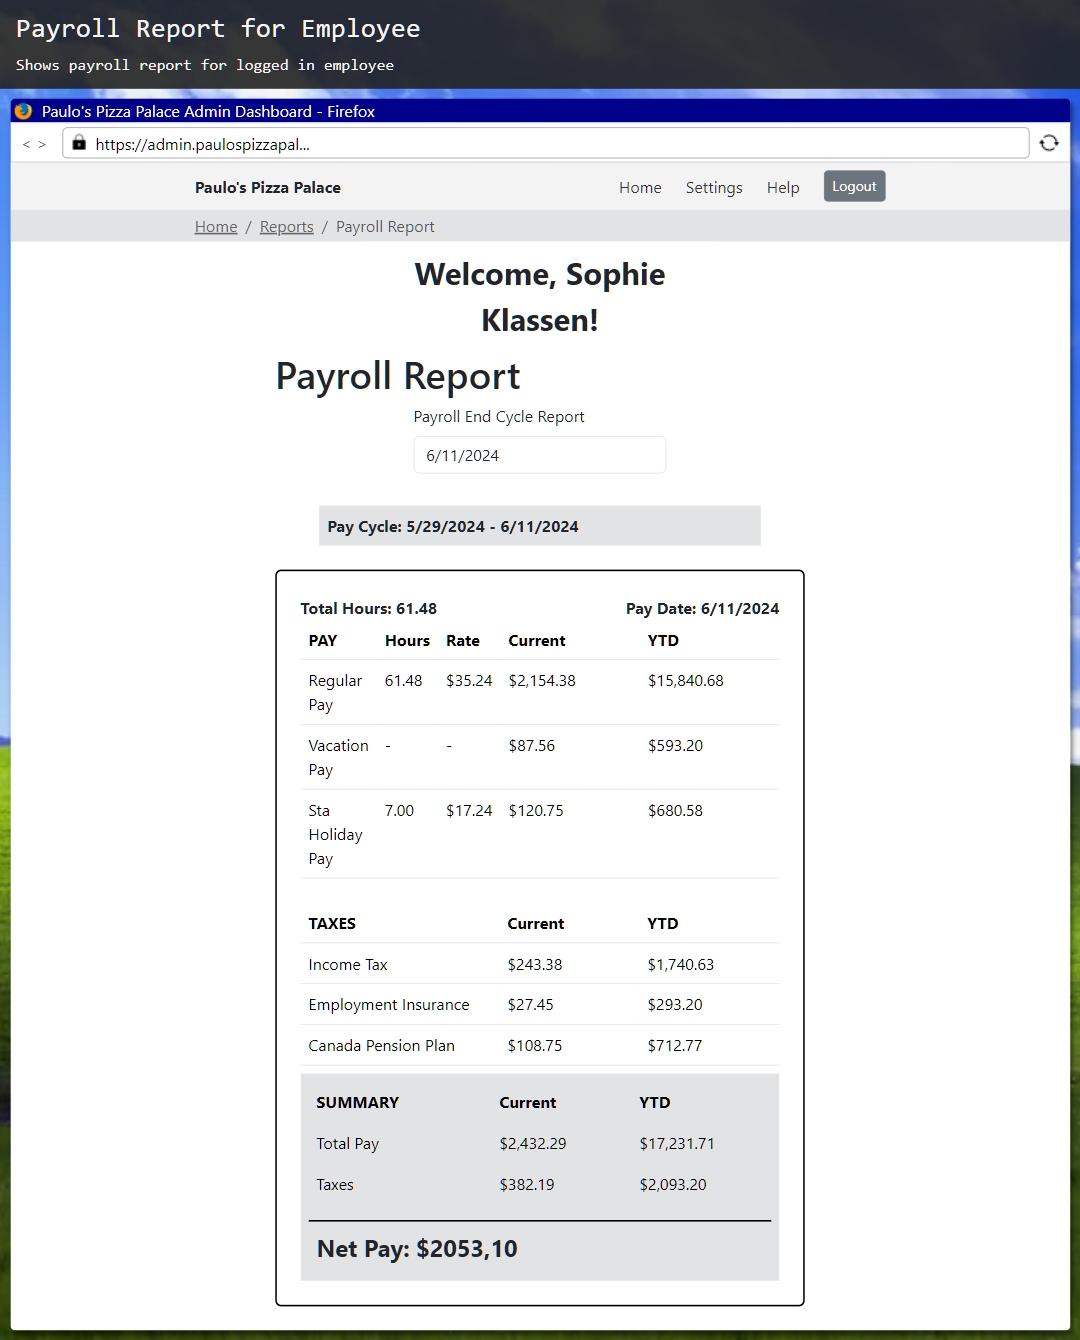
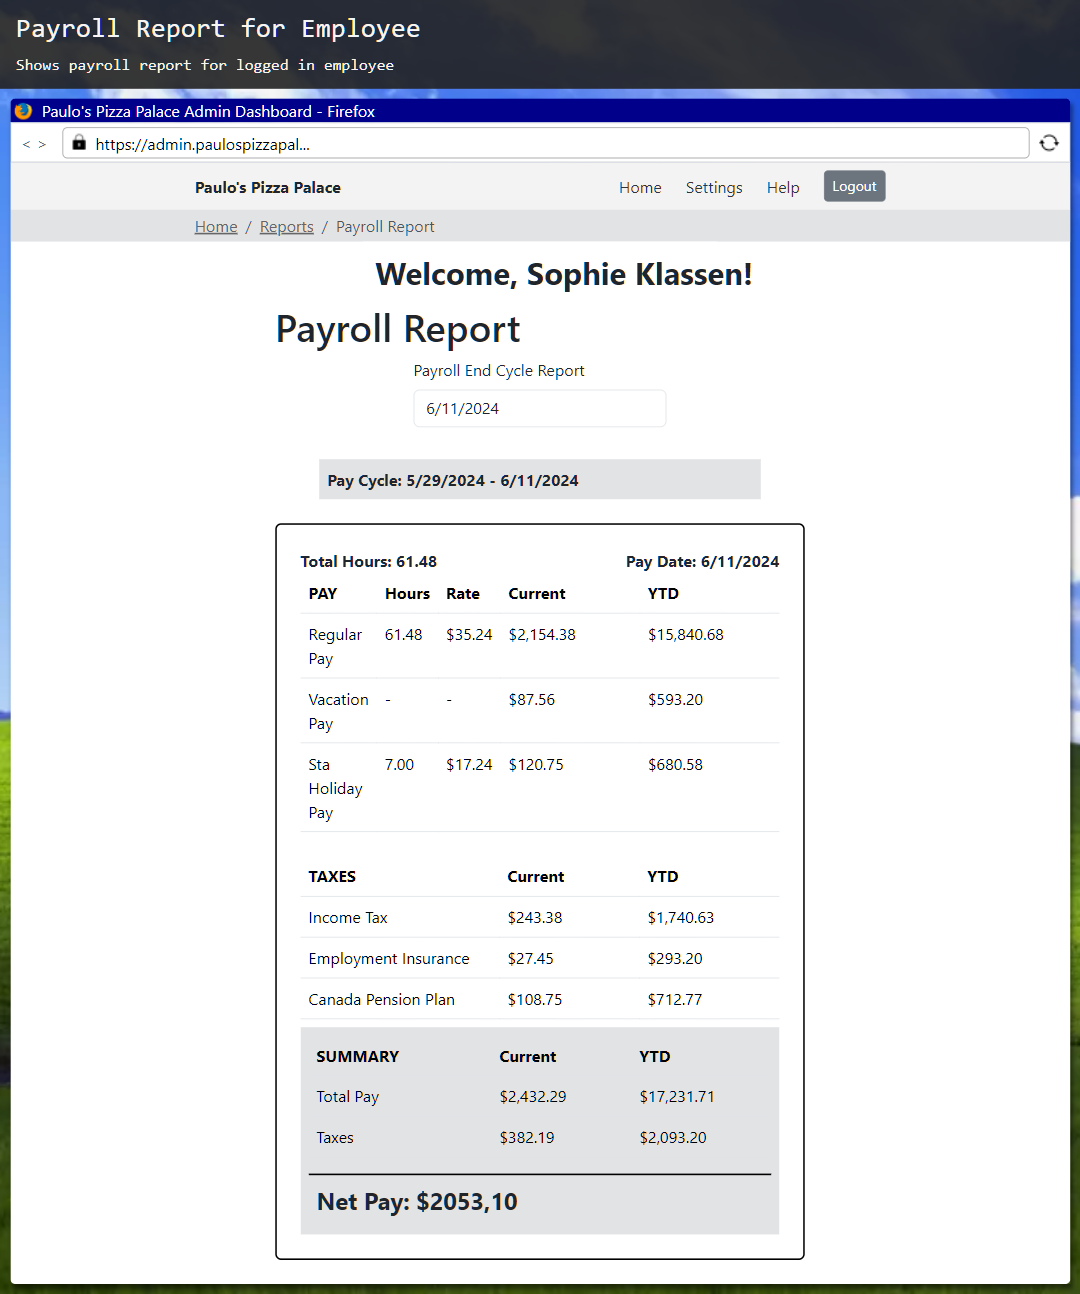
UPdate title of busiest time report

diff --git a/src/routes/PayrollReport.tsx b/src/routes/PayrollReport.tsx
@@ -27,7 +27,7 @@ Canada Pension Plan|$108.75|$712.77`
 	const taxRows = textToRowCells(taxText)
 
 	return <div className={'col-md-6 mx-auto'}>
-		<div className={pppSection + ' text-center fs-2 fw-bold'}>
+		<div className={pppSection + ' text-center fs-2 fw-bold text-nowrap'}>
 			Welcome, {asAdmin ? 'Paulo' : 'Sophie Klassen'}!
 		</div>
 		<h1>Payroll Report</h1>

diff --git a/src/routes/BusyTimesReport.tsx b/src/routes/BusyTimesReport.tsx
@@ -27,7 +27,7 @@ export default function BusyTimesReport () {
 	useSetBreadcrumbs(['Reports', 'Busy Times Report'])
 
 	return <div className={pppSection}>
-		<h1>Most Popular Times Report</h1>
+		<h1>Busiest Times Report</h1>
 		<div className={'row'}>
 			<Selector title={'Baseline Date Period'} activeOptionIdx={0} options={[
 				'6/11/2024',

diff --git a/src/routes/Home.tsx b/src/routes/Home.tsx
@@ -62,7 +62,7 @@ const reports : Report[] = [
 						fill="#454545"/>
 		</svg>,
 		key: 'popular-times',
-		title: 'Most Popular Times Report',
+		title: 'Busiest Times Report',
 		description: 'Which weekdays and which hours are the busiest.',
 	},
 ]
